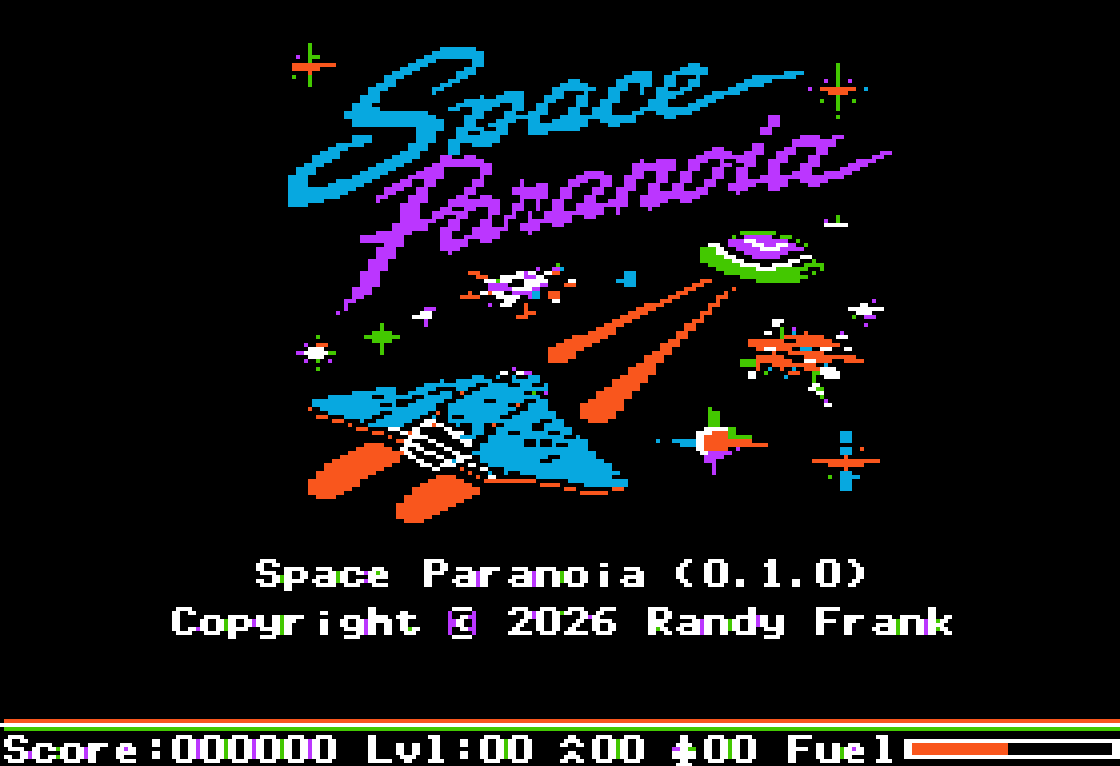
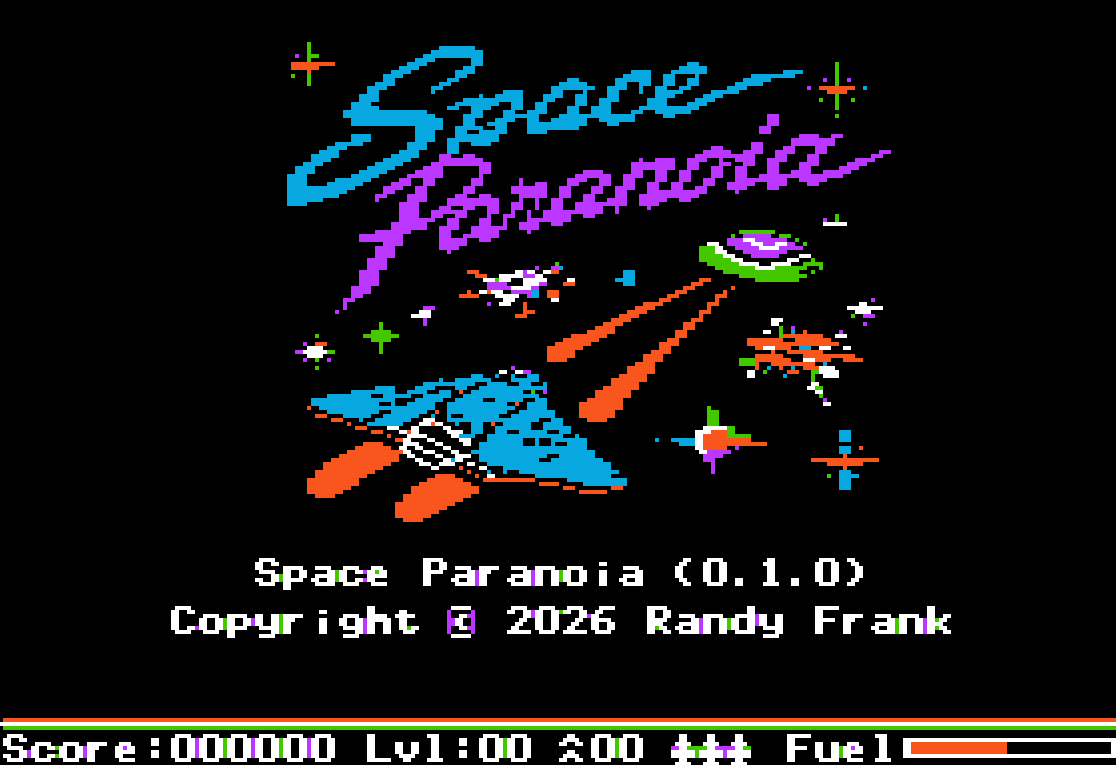
Sprite mask generation in place
- add sprite I/O engine
- add mask generation
- prepare for spite testing
- add dummy sprite draw

diff --git a/utilities/gen_sprites.py b/utilities/gen_sprites.py
@@ -1,5 +1,34 @@
+import glob
 import os
 from datetime import datetime
+
+
+def merge_bits(output, input):
+    for y in range(12):
+        for x in range(14):
+            if input[y][x] == "@":
+                t = output[y]
+                t = t[:x] + "@" + t[x+1:] 
+                output[y] = t
+
+
+def clear_mask(mask, image, shiftx, shitfy):
+    for y in range(12):
+        yi = y + shitfy
+        if yi < 0:
+            continue
+        if yi >= 12:
+            continue
+        for x in range(14):
+            xi = x + shiftx
+            if xi < 0:
+                continue
+            if xi >= 14:
+                continue
+            if image[yi][xi] == "@":
+                t = mask[y]
+                t = t[:x] + "." + t[x+1:] 
+                mask[y] = t
 
 
 def gen_byte(s, hb):
@@ -12,11 +41,15 @@ def gen_byte(s, hb):
     return f"{d:02X}"
 
 
-def gen_hex(shift, line):
-    highbit = 0x00
-    if line[-1:] == "1":
-        highbit = 0x80
-    scan = "."*shift + line[:-1] + "."*(7-shift)
+def gen_hex(shift, line, mask=False):
+    highbit = 0x80
+    pad = '@'
+    if not mask:
+        pad = '.'
+        if line[-1:] != "1":
+            highbit = 0x00
+            
+    scan = pad*shift + line[:-1] + pad*(7-shift)
     s = "hex   "
     s += gen_byte(scan[0:7], highbit)
     s += gen_byte(scan[7:14], highbit)
@@ -25,54 +58,98 @@ def gen_hex(shift, line):
     return s
 
 
-sprites = {}
+def gen_file(name):
+    sprites = {}
 
-pad = "         "
-s = "* Sprite conversion to hex tables\n"
-s += f"* Date: {datetime.now().isoformat()}\n\n"
+    pad = "         "
+    s = "* Sprite conversion to hex tables\n"
+    s += f"* Date: {datetime.now().isoformat()}\n\n"
 
-sprite_num = 0
-sprite_shift = 0
-image = []
-in_image = False
-name = os.path.join("utilities", "sprites.txt")
-with open(name,"r") as fp:
-    for line in fp:
-        line = line.replace("\n", "")
-        if len(line) < 3:
-            continue
-        if line.startswith("#"):
-            continue
-        elif line.startswith("sprite:"):
-            sprite_num = int(line[7:])
-            continue
-        elif line.startswith("shift:"):
-            sprite_shift = int(line[6:])
-            continue
-        elif line.startswith("12481241248124"):
-            in_image = not in_image
-            if in_image:
-                # if starting an image, add an empty scanline
-                image.append("..............0")
-            else:
-                # if image is done, add an empty scanline and save it
-                image.append("..............0")
-                if sprite_num not in sprites:
-                    sprites[sprite_num] = {}
-                sprites[sprite_num][sprite_shift] = image
-                image=[]
-        elif in_image:
-            image.append(line)
+    out_idx = 0
+    sprite_num = 0
+    sprite_shift = 0
+    image = []
+    in_image = False
+    with open(name,"r") as fp:
+        for line in fp:
+            line = line.replace("\n", "")
+            if len(line) < 3:
+                continue
+            if line.startswith("#"):
+                continue
+            elif line.startswith("sprite:"):
+                sprite_num = int(line[7:])
+                continue
+            elif line.startswith("shift:"):
+                sprite_shift = int(line[6:])
+                continue
+            elif line.startswith("filenum:"):
+                out_idx = int(line[8:])
+                continue
+            elif line.startswith("12481241248124"):
+                in_image = not in_image
+                if in_image:
+                    # if starting an image, add an empty scanline
+                    image.append("..............0")
+                else:
+                    # if image is done, add an empty scanline and save it
+                    image.append("..............0")
+                    if sprite_num not in sprites:
+                        sprites[sprite_num] = {}
+                    sprites[sprite_num][sprite_shift] = image
+                    image=[]
+            elif in_image:
+                image.append(line)
 
-for sprite_num in range(len(sprites)):
-    s += f"{pad}ds   \\\n"
-    s += f"* Sprite# {sprite_num}\n"
-    for sprite_shift in range(len(sprites[sprite_num])):
-        s += f"* Shift# {sprite_shift}\n"
-        for line in sprites[sprite_num][sprite_shift]:
-            s += f"{pad}{gen_hex(sprite_shift,line)}\n"
+    for sprite_num in range(len(sprites)):
+        s += f"{pad}ds   \\\n"
+        s += f"* Sprite# {sprite_num}\n"
+        for sprite_shift in range(len(sprites[sprite_num])):
+            s += f"* Shift# {sprite_shift}\n"
+            for line in sprites[sprite_num][sprite_shift]:
+                s += f"{pad}{gen_hex(sprite_shift,line)}\n"
+        s += "         ds 4\n"  # sprite is 252 bytes pad to page
+        # generate mask images for this sprite
+        # 'or' all the shift images together
+        # fill the mask with 1's
+        # 9 shifts - [-1,0,1] 
+        #    walk the shifted, 'or'ed input image clearing mask bits
+        # use the resulting mask, shifted for [0-6]
+        merged = []
+        mask = []
+        for i in range(12):
+            merged.append("."*14+"1")
+            mask.append("@"*14+"1")
+        for sprite_shift in range(len(sprites[sprite_num])):
+            merge_bits(merged, sprites[sprite_num][sprite_shift])
+        clear_mask(mask, merged, -1, -1)
+        clear_mask(mask, merged, -1,  0)
+        clear_mask(mask, merged, -1,  1)
+        clear_mask(mask, merged,  0, -1)
+        clear_mask(mask, merged,  0,  0)
+        clear_mask(mask, merged,  0,  1)
+        clear_mask(mask, merged,  1, -1)
+        clear_mask(mask, merged,  1,  0)
+        clear_mask(mask, merged,  1,  1)
+        s += f"* Sprite mask# {sprite_num}\n"
+        for sprite_shift in range(len(sprites[sprite_num])):
+            s += f"* Shift mask# {sprite_shift}\n"
+            for line in mask:
+                s += f"{pad}{gen_hex(sprite_shift,line,mask=True)}\n"
+        s += "         ds 4\n" # sprite is 252 bytes pad to page
+    
+    n = chr(out_idx+ord('A'))
+    out_name = f"SPRITES_{n}.S"
+    prefix  =  "        org    $8000\n"
+    prefix += f"        dsk    ../bin/SPACEPARA.{n}#068000\n"
+    prefix +=  "        typ    $06\n\n"
+    s = prefix + s
+    with open(os.path.join("src", out_name), "w") as fp:
+        fp.write(s)
 
-# TODO: generate mask image
 
-with open(os.path.join("src", "SPRITES.S"), "w") as fp:
-    fp.write(s)
+# Each sprites_*.txt file generates a different src/SPRITES_{x}.S 
+# and assembles into SPACEPARA.{x}
+for name in glob.glob(os.path.join("utilities", "sprites*.txt")):
+    gen_file(name)
+    

diff --git a/build.py b/build.py
@@ -130,6 +130,8 @@ log.info("Assembling 6502 source code...")
 # Merlin does not handle subdirs very well...
 orig_dir = os.getcwd()
 os.chdir("src")
+for name in glob.glob("SPRITES_*.S"):
+    files.append(name)
 for name in files:
     cmd = [os.path.join("..", assembler), os.path.join("..", assembler_libdir), name]
     log.info(f"Assembling: {name}")
@@ -206,7 +208,7 @@ for name in os.listdir("basic"):
         os.remove(os.path.join("basic", root))
         log.info(f"Imported: basic/{name} as {root}")
 
-skip_prefix = ["_", "BIGFONT", "DRAWING", "LOADER", "TITLE", "SPACEPARA"]
+skip_prefix = ["_", "BIGFONT", "DRAWING", "LOADER", "TITLE", "SPACEPARA#"]
 for name in os.listdir("bin"):
     valid = True
     for s in skip_prefix:
